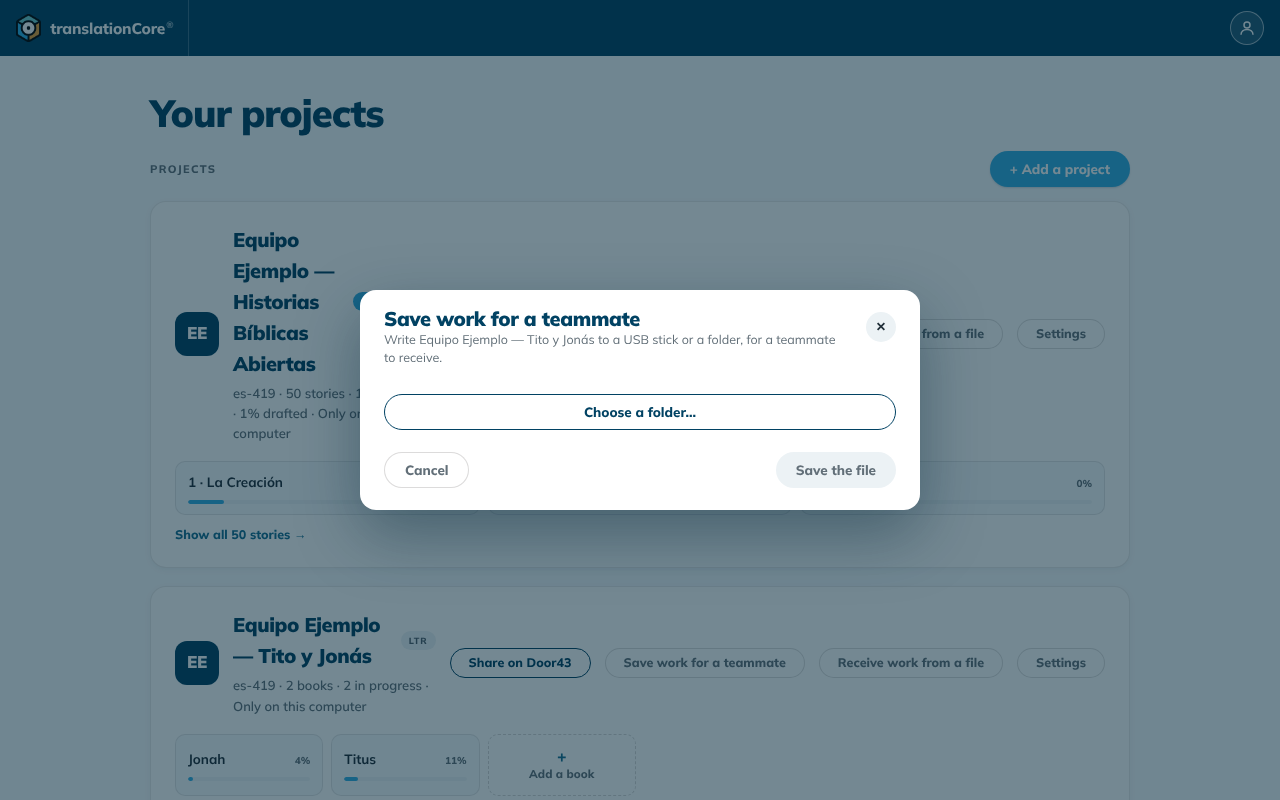
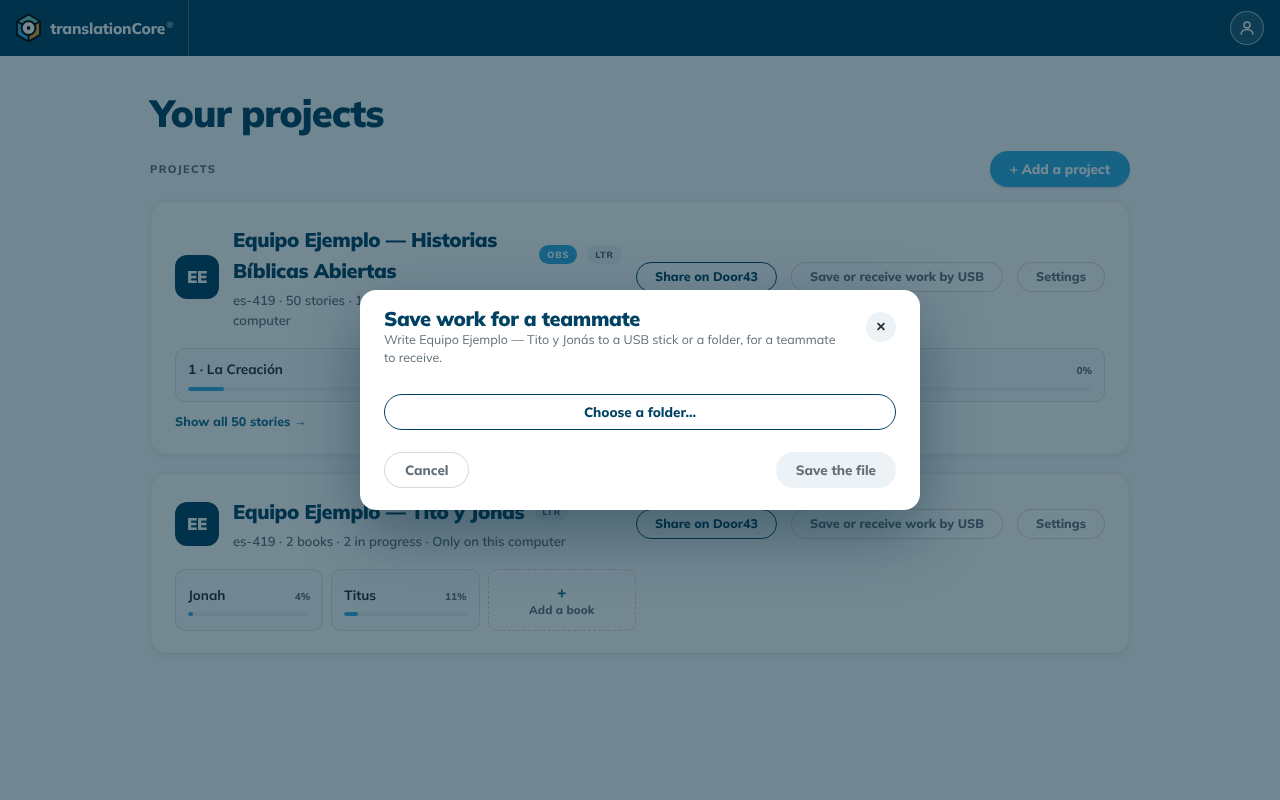
E2 step 7: one USB menu on the card, and the count of a teammate's saves
The owner agreed with the packet's recommendations: the two USB buttons
become one "Save or receive work by USB" menu beside Share on Door43, so
the card's row stays as tC4's; and the Received count leaves bookkeeping
out (a device's profile, resource pins) and counts work once per batch,
so one verse from a teammate shows "1 change" even when its edit reflowed
the verse's alignment. Every change still reaches the Received sheet's
rows.

diff --git a/crates/tc-ui/src/views/home.rs b/crates/tc-ui/src/views/home.rs
@@ -31,8 +31,8 @@ use crate::app::web::{Actions, AppCtx, AppState, use_app, use_runtime};
 use crate::attrs::Attrs;
 use crate::css::Css;
 use crate::ds::{
-    Badge, BadgeSize, BadgeTone, BookTile, Button, ButtonVariant, Callout, CalloutTone, Card,
-    Overline, Size, Toast, ToastTone,
+    Badge, BadgeSize, BadgeTone, BookTile, Button, ButtonVariant, Callout, CalloutTone, Card, Menu,
+    MenuItem, Overline, Size, Toast, ToastTone,
 };
 use crate::i18n::{keys, t};
 use crate::views::sync_result::SyncResult;
@@ -469,57 +469,54 @@ fn share_action(
     }
 }
 
-/// Save work for a teammate (only where the shell picks folders) and Receive work from a file
-/// (E2; rebuild-only screens, STORAGE §10).
-fn exchange_buttons(
+/// "Save or receive work by USB": one menu beside Share on Door43, so the card's row stays as
+/// tC4's (owner ruling 2026-10-26, E2 packet question 1). "Save work for a teammate" is listed
+/// only where the shell can pick a folder.
+fn exchange_menu(
     actions: &Actions,
     card: Signal<Option<HomeCard>>,
     project: &ProjectRef,
 ) -> impl IntoView + use<> {
-    let save = {
+    let mut items = Vec::new();
+    if actions.can_save_for_teammate() {
         let actions = actions.clone();
-        actions.can_save_for_teammate().then(|| {
-            let press = {
-                let actions = actions.clone();
-                Callback::new(move |_: web_sys::MouseEvent| {
-                    if let Some(card) = card.get_untracked() {
-                        actions.open_save_for_teammate(&card);
-                    }
-                })
-            };
-            view! {
-                <Button
-                    variant=ButtonVariant::Secondary
-                    size=Size::Sm
-                    attrs=Attrs::new().with("data-testid", format!("save-for-teammate-{project}"))
-                    title=Signal::derive(|| Some(t(keys::home::SAVE_FOR_TEAMMATE, &[])))
-                    on_click=press
-                >
-                    {move || t(keys::home::SAVE_FOR_TEAMMATE, &[])}
-                </Button>
-            }
-        })
-    };
-    let receive = {
-        let actions = actions.clone();
-        Callback::new(move |_: web_sys::MouseEvent| {
-            if let Some(card) = card.get_untracked() {
-                actions.open_receive_work(&card);
-            }
-        })
-    };
-    view! {
-        {save}
-        <Button
-            variant=ButtonVariant::Secondary
-            size=Size::Sm
-            attrs=Attrs::new().with("data-testid", format!("receive-work-{project}"))
-            title=Signal::derive(|| Some(t(keys::home::RECEIVE_WORK, &[])))
-            on_click=receive
-        >
-            {move || t(keys::home::RECEIVE_WORK, &[])}
-        </Button>
+        items.push(MenuItem {
+            label: t(keys::home::SAVE_FOR_TEAMMATE, &[]),
+            on_click: Some(Callback::new(move |()| {
+                if let Some(card) = card.get_untracked() {
+                    actions.open_save_for_teammate(&card);
+                }
+            })),
+            ..MenuItem::default()
+        });
     }
+    {
+        let actions = actions.clone();
+        items.push(MenuItem {
+            label: t(keys::home::RECEIVE_WORK, &[]),
+            on_click: Some(Callback::new(move |()| {
+                if let Some(card) = card.get_untracked() {
+                    actions.open_receive_work(&card);
+                }
+            })),
+            ..MenuItem::default()
+        });
+    }
+    let testid = format!("usb-menu-{project}");
+    let trigger: crate::ds::Slot = Box::new(move || {
+        view! {
+            <Button
+                variant=ButtonVariant::Secondary
+                size=Size::Sm
+                attrs=Attrs::new().with("data-testid", testid.clone())
+                title=Signal::derive(|| Some(t(keys::home::USB_MENU, &[])))
+            >
+                {move || t(keys::home::USB_MENU, &[])}
+            </Button>
+        }
+        .into_any()
+    });
+    view! { <Menu trigger=trigger items=items /> }
 }
 
 fn settings_button(actions: &Actions, card: Signal<Option<HomeCard>>) -> impl IntoView + use<> {
@@ -736,7 +733,7 @@ fn header(
                 </span>
             </div>
             {share_action(s, actions, card, project)}
-            {exchange_buttons(actions, card, project)}
+            {exchange_menu(actions, card, project)}
             {settings_button(actions, card)}
         </div>
     }

diff --git a/crates/tc-sync/src/sync.rs b/crates/tc-sync/src/sync.rs
@@ -133,6 +133,7 @@ pub async fn sync(
             .map(|c| c.id)
             .collect(),
         received_from: Default::default(),
+        received_batches: Default::default(),
         received_ids: Vec::new(),
     };
     let (mut state, mut actions) = next(&SyncState::Idle, &SyncEvent::Start);
@@ -175,9 +176,12 @@ struct Run<'a> {
     merged: Option<Result<CheckpointReport, String>>,
     report: SyncReport,
     conflicts_before: std::collections::BTreeSet<tc_journal::fold::ConflictId>,
-    /// New changes in the received packs, by the device that made them.
+    /// A teammate's saves in the received packs, by the device that made them: one per batch
+    /// of new changes that is work (a verse and the alignment its edit reflowed are one save).
     received_from: std::collections::BTreeMap<tc_journal::DeviceId, u32>,
-    /// Their ids.
+    /// The batches counted in `received_from`.
+    received_batches: std::collections::BTreeSet<(tc_journal::DeviceId, tc_journal::BatchId)>,
+    /// The ids of every new change, bookkeeping included (the Received sheet's rows).
     received_ids: Vec<tc_journal::ChangeId>,
 }
 
@@ -211,12 +215,16 @@ impl Run<'_> {
             for change in tc_store::read_received_pack(&pack.path, &pack.bytes, project).changes {
                 if snapshot.fold().change(&change.id()).is_none() {
                     // A device's profile (its Door43 username, Q7) is bookkeeping a sync
-                    // writes, not work a translator made: the toast never counts it.
-                    if !matches!(
-                        change.body().record,
-                        tc_journal::Record::DeviceProfile { .. }
-                    ) {
-                        *self.received_from.entry(change.body().device).or_insert(0) += 1;
+                    // writes, and the resource pins an open's upgrade writes are bookkeeping
+                    // too (owner ruling 2026-10-26): neither is work a translator made, so
+                    // the toast never counts them. Work is counted once per batch: one save.
+                    let body = change.body();
+                    let work = !matches!(
+                        body.record,
+                        tc_journal::Record::DeviceProfile { .. } | tc_journal::Record::Pins { .. }
+                    );
+                    if work && self.received_batches.insert((body.device, body.batch.id)) {
+                        *self.received_from.entry(body.device).or_insert(0) += 1;
                     }
                     self.received_ids.push(change.id());
                 }
@@ -630,11 +638,16 @@ fn restored_changes(
         .filter_map(|(path, oid)| {
             let blob = repo.find_blob(*oid).ok()?;
             let read = tc_store::read_received_pack(path, blob.content(), project);
-            // A device's profile is bookkeeping, as in `count_received`.
+            // A device's profile and resource pins are bookkeeping, as in `count_received`.
             let work = read
                 .changes
                 .iter()
-                .filter(|c| !matches!(c.body().record, tc_journal::Record::DeviceProfile { .. }))
+                .filter(|c| {
+                    !matches!(
+                        c.body().record,
+                        tc_journal::Record::DeviceProfile { .. } | tc_journal::Record::Pins { .. }
+                    )
+                })
                 .count();
             Some(work as u32)
         })

diff --git a/crates/tc-sync/src/exchange.rs b/crates/tc-sync/src/exchange.rs
@@ -398,7 +398,7 @@ pub async fn receive(
             let fold = project.snapshot();
             let some_held = changes
                 .iter()
-                .any(|(_, id)| fold.fold().change(id).is_some());
+                .any(|(_, id, _)| fold.fold().change(id).is_some());
             return Err(if some_held {
                 ExchangeError::PartlyReceived(e.to_string())
             } else {
@@ -418,9 +418,15 @@ pub async fn receive(
     // Received: new before the file, and in the project after it.
     let mut received_from: BTreeMap<tc_journal::DeviceId, u32> = BTreeMap::new();
     let mut received_ids = Vec::new();
-    for (device, change) in changes {
+    let mut batches: std::collections::BTreeSet<(tc_journal::DeviceId, tc_journal::BatchId)> =
+        std::collections::BTreeSet::new();
+    for (device, change, batch) in changes {
         if held.fold().change(&change).is_none() && snapshot.fold().change(&change).is_some() {
-            *received_from.entry(device).or_insert(0) += 1;
+            if let Some(batch) = batch
+                && batches.insert((device, batch))
+            {
+                *received_from.entry(device).or_insert(0) += 1;
+            }
             received_ids.push(change);
         }
     }
@@ -454,7 +460,11 @@ type Read_ = (
     Vec<ReceivedPack>,
     Vec<String>,
     Vec<String>,
-    Vec<(tc_journal::DeviceId, tc_journal::ChangeId)>,
+    Vec<(
+        tc_journal::DeviceId,
+        tc_journal::ChangeId,
+        Option<tc_journal::BatchId>,
+    )>,
 );
 
 fn read_received(
@@ -501,7 +511,16 @@ fn read_received(
             let read = tc_store::read_received_pack(name, bytes, id);
             all_valid &= read.valid;
             for change in read.changes {
-                changes.push((change.body().device, change.id()));
+                // A device's profile and its resource pins are bookkeeping, not work (owner
+                // ruling 2026-10-26): they join the project but the count leaves them out.
+                // Work is counted once per batch: one save.
+                let body = change.body();
+                let batch = (!matches!(
+                    body.record,
+                    tc_journal::Record::DeviceProfile { .. } | tc_journal::Record::Pins { .. }
+                ))
+                .then_some(body.batch.id);
+                changes.push((body.device, change.id(), batch));
                 inputs.push(tc_journal::fold::FoldInput::from(change));
             }
             packs.push(ReceivedPack {

diff --git a/crates/tc-sync/tests/sync/exchange.rs b/crates/tc-sync/tests/sync/exchange.rs
@@ -404,3 +404,42 @@ async fn loss_usb_damaged_carried_entry_not_recorded() {
     a.close().unwrap();
     b.close().unwrap();
 }
+
+/// Owner ruling 2026-10-26 (E2 packet, question 2): the resource pins an open's upgrade writes
+/// are bookkeeping, as a device's profile is, so one verse from a teammate is "1 change".
+#[tokio::test(flavor = "multi_thread", worker_threads = 2)]
+async fn a_receive_counts_a_teammates_verse_not_their_pins() {
+    use tc_journal::command::Command;
+    use tc_journal::record::PinGroupValue;
+    use tc_journal::{PinGroup, RecordKey};
+    let dir = tempfile::tempdir().unwrap();
+    let stick = usb(dir.path());
+    let ana = computer(dir.path(), "ana");
+    let folder_a = titus(&ana);
+    let juan = computer(dir.path(), "juan");
+    let folder_b = copy_to(&folder_a, &juan);
+    let b = open(&juan, &folder_b);
+    save(&b, 1, 1, "Paul, as Juan has it");
+    let pins = serde_json::json!({
+        "gatewayLanguage": { "languageId": "en", "owner": "unfoldingWord" },
+        "translationNotes": { "repoPath": "git.door43.org/unfoldingWord/en_tn", "version": "v90" },
+    });
+    let shown = b.mint(&RecordKey::Pins(PinGroup::Primary), None).unwrap();
+    b.submit(Command::SetPins {
+        shown,
+        value: PinGroupValue::from_json(&pins).unwrap(),
+    })
+    .wait()
+    .unwrap();
+    let from_juan = export(&b, &stick, "Juan").await.unwrap();
+    let a = open(&ana, &folder_a);
+    let report = receive(&a, &from_juan, "Juan").await.unwrap();
+    assert_eq!(
+        report.received_by.values().sum::<u32>(),
+        1,
+        "Juan's pins are not received work: {report:?}"
+    );
+    assert_eq!(words(&a, 1, 1).as_deref(), Some("Paul, as Juan has it"));
+    a.close().unwrap();
+    b.close().unwrap();
+}

diff --git a/crates/tc-app/src/sync.rs b/crates/tc-app/src/sync.rs
@@ -87,8 +87,23 @@ pub fn synced_view(
         }
     }
     let (replaced, records) = replaced(snapshot, received, &labels);
+    // A device's profile and its resource pins are bookkeeping, not a teammate's work (owner
+    // ruling 2026-10-26): the count leaves them out, the replaced rows keep them. Work counts
+    // once per batch, one save: a verse and the alignment its edit reflowed are one.
+    let work = received
+        .iter()
+        .filter_map(|id| snapshot.body(id))
+        .filter(|body| {
+            !matches!(
+                body.record,
+                tc_journal::Record::DeviceProfile { .. } | tc_journal::Record::Pins { .. }
+            )
+        })
+        .map(|body| (body.device, body.batch.id))
+        .collect::<std::collections::BTreeSet<_>>()
+        .len();
     SyncResultView {
-        received: u32::try_from(received.len()).unwrap_or(u32::MAX),
+        received: u32::try_from(work).unwrap_or(u32::MAX),
         from,
         // tC4's "{n} conflicts kept the newest version", one per record that held two
         // versions (tC4 sync.mjs): under H5, each such record a newer version settled.

diff --git a/crates/tc-api/src/jobs.rs b/crates/tc-api/src/jobs.rs
@@ -197,7 +197,9 @@ pub enum JobOutcome {
 #[cfg_attr(feature = "proptest", derive(proptest_derive::Arbitrary))]
 #[serde(rename_all = "camelCase")]
 pub struct SyncResultView {
-    /// The teammates' changes this sync received.
+    /// The teammates' saves this sync received: one per batch of their changes (a verse and
+    /// the alignment its edit reflowed are one), bookkeeping (a device's profile, resource
+    /// pins) left out.
     pub received: u32,
     /// Who sent them, each person once, named as the conflict review names them (#680).
     pub from: Vec<PersonLabel>,

diff --git a/.audit/roadmap/units/E2.md b/.audit/roadmap/units/E2.md
@@ -15,7 +15,7 @@ no_loss: true
 size: 4-4.5 sessions (basis: C6; STORAGE-DELTA-2026-10-21 §6 adds 0 to 0.5 for §11.3's notices)
 merged: none
 updated: 2026-10-26
-next: steps 4 to 7 built and pushed for a batch (gates --touched: 1964 pass); the owner's answers on the USB screens packet (docs/evidence/e2-usb-2026-10-26/README.md), then the signed-off captures; STORAGE §15 L85 keeps its pending marker (the §16.5 probe).
+next: step 7 (the ruling's menu and count) on track-E2b: three lenses, gates --touched, push once for a batch; then the signed-off captures with CHK-6's recapture; STORAGE §15 L85 keeps its pending marker (the §16.5 probe).
 blocked_by: none
 ---
 
@@ -400,3 +400,6 @@ and the same with `--features gallery`, `--features app` and `--features test-ho
 - 2026-10-26 19:30 EDT | S2 session (Claude Code add49644) | step 6 | none | parity/app/journeys/usb-exchange.test.mjs over withApps (kit.mjs: n apps in one browser, each its own tc4 serve and projects folder, a tc4Shell stub whose chooseFolder/chooseFile answer what the test set): A (sample) writes Titus 1:2 and saves a file for a teammate; B (an empty computer) receives it as a new project from Add a project, sees A's verse, writes 1:1, saves a file back; A receives it into the sample and sees both; after a reload door43/lastSync still answers the receive (step 4b); C (empty) receives B's file as a new project and ends with A's and B's work. tc4 --test-hooks now runs the real UsbExchange (only sync stays scripted). Three runs in a row: pass 1, fail 0, skipped 0. Seen: a receive counts B's open as received work beside B's verse (the pin changes the open's upgrade plan wrote: received 2 for one verse); a sync counts the same way, so the journey asserts at least one. Not in the journey: the dialog's inert close while a job runs, Save again after a failed verify, the upload spinner (host tests cover them, tests/app/exchange.rs in tc-ui) | parity/app/journeys/usb-exchange.test.mjs
 - 2026-10-26 20:05 EDT | S2 session (Claude Code add49644) | J7 | none | the export menu's Scripture Burrito zip is on: Producer::BurritoZip (tc-api); export/run with it runs the exchange port's export into the server's downloads folder (checkpoint, write, verify, as Save work for a teammate) and registers the file as `<project name>-<YYYY-MM-DD>.zip`, tC4's name; the UI's producer_of maps the item to it (D2 had left it off for E2). Tests: the_burrito_zip_item_downloads_the_exchange_file (tc-app, the real port on an on-disk app: one download, named for the project, metadata.json and the book inside), every_export_item_runs_its_producer (tc-ui); J7's journey downloads the zip beside the USFM files and checks the stored book is in it byte for byte, and names it with the others (pass 6, fail 0) | crates/tc-app/src/export.rs
 - 2026-10-26 20:40 EDT | S2 session (Claude Code add49644) | step 7 | none | every_exchange_file_is_a_valid_burrito (tc-app): a teammate's exchange file and this computer's own export are each checked entry for entry with the store world's burrito check (INV-VALID-BURRITO; a zip without metadata.json fails it, as burrito_problems_of says first). Step 5's notice is in: the dialog lists each hand-edited file with exchange.receive.handEdited and the port contract's a_receive_takes_in_only_the_files_packs holds it for both ports; the card's name for that test (a_book_file_edited_inside_the_zip_is_not_taken_in) is the contract's. Left of step 7: the signed-off captures (the owner has not seen the USB screens yet; a capture set follows), APP-DESIGN's E2 row and TC4-ISSUES #705. STORAGE §15 L85 (usb_export_verify_reads_device) keeps its pending marker: it needs the §16.5 probe | crates/tc-app/tests/app/exchange.rs
+- 2026-10-26 22:10 EDT | S2 session (Claude Code add49644) | ruling | none | the owner on the USB screens packet (docs/evidence/e2-usb-2026-10-26/README.md): "I agree with your recommendations". (1) The two USB buttons go into one menu, "Save or receive work by USB", beside Share on Door43, so the card's row stays as tC4's; English plus pending entries in the nine languages. (2) Resource-pin bookkeeping is left out of the Received count, as the device profile is; a test shows one verse from B as 1 change. (3) "Teammate 1" stays. Relayed by the orchestrator; (1) and (2) are step 7 on track-E2b; the recapture waits for CHK-6's final recapture | docs/evidence/e2-usb-2026-10-26/README.md
+- 2026-10-26 23:40 EDT | S2 session (Claude Code add49644) | note | none | correction to the packet's question 2: the second counted change after B's one verse was not pin bookkeeping but the alignment record B's verse edit reflowed (the sample's 1:1 is aligned), one batch with the verse. The ruling's count rule is kept and made exact: bookkeeping (a device's profile, resource pins) is never counted, and work is counted once per batch, one save, so one verse from B shows 1 change (a_receive_counts_a_teammates_verse_not_their_pins in tc-sync; the journey asserts received 1). The owner should know the explanation they agreed to was wrong on the cause; the rule they chose stands | crates/tc-sync/src/exchange.rs
+- 2026-10-27 00:20 EDT | S2 session (Claude Code add49644) | step 7 | none | the ruling's two changes: (1) Home's card shows one "Save or receive work by USB" menu (home.usbMenu, English plus the nine pending lists) beside Share on Door43, with "Save work for a teammate" (only where the shell picks a folder) and "Receive work from a file" as its items; the journeys and the packet script open the menu by its test id usb-menu-<project> and press the item by its name. (2) The received count leaves bookkeeping out (a device's profile, resource pins) and counts work once per batch, one save, in tc-sync's sync and USB receive and in the app's SyncResultView; every change id still reaches the Received sheet's rows. Tests: a_receive_counts_a_teammates_verse_not_their_pins (tc-sync: one verse and a pins record from Juan, received 1); the USB journey asserts received 1 after B's one verse (three runs pass); tc-sync 41, tc-app sync/exchange/port_contract, tc-ui i18n, wasm clippy, the packet script, Home's journey pass | crates/tc-ui/src/views/home.rs

diff --git a/docs/evidence/e2-usb-2026-10-26/README.md b/docs/evidence/e2-usb-2026-10-26/README.md
@@ -31,3 +31,7 @@ Titus 1:1 and saves a file back; A receives B's file.
 3. B has no Door43 name, so A's sheet says "Teammate 1" (13). Fine for a computer that never
    signed in, or should the file carry the sender's name from the export dialog?
    Recommendation: keep "Teammate 1" (the Door43 name is shown once the sender signs in, #680).
+
+Ruling (owner, 2026-10-26): "I agree with your recommendations": one USB menu beside Share on Door43; pin bookkeeping left out of the count; "Teammate 1" stays.
+
+Correction (2026-10-26, after the ruling): the second change in picture 13 was the alignment B's verse edit reflowed, not pin bookkeeping. The count now leaves bookkeeping out and counts one per save (a batch), so one verse shows 1 change.
